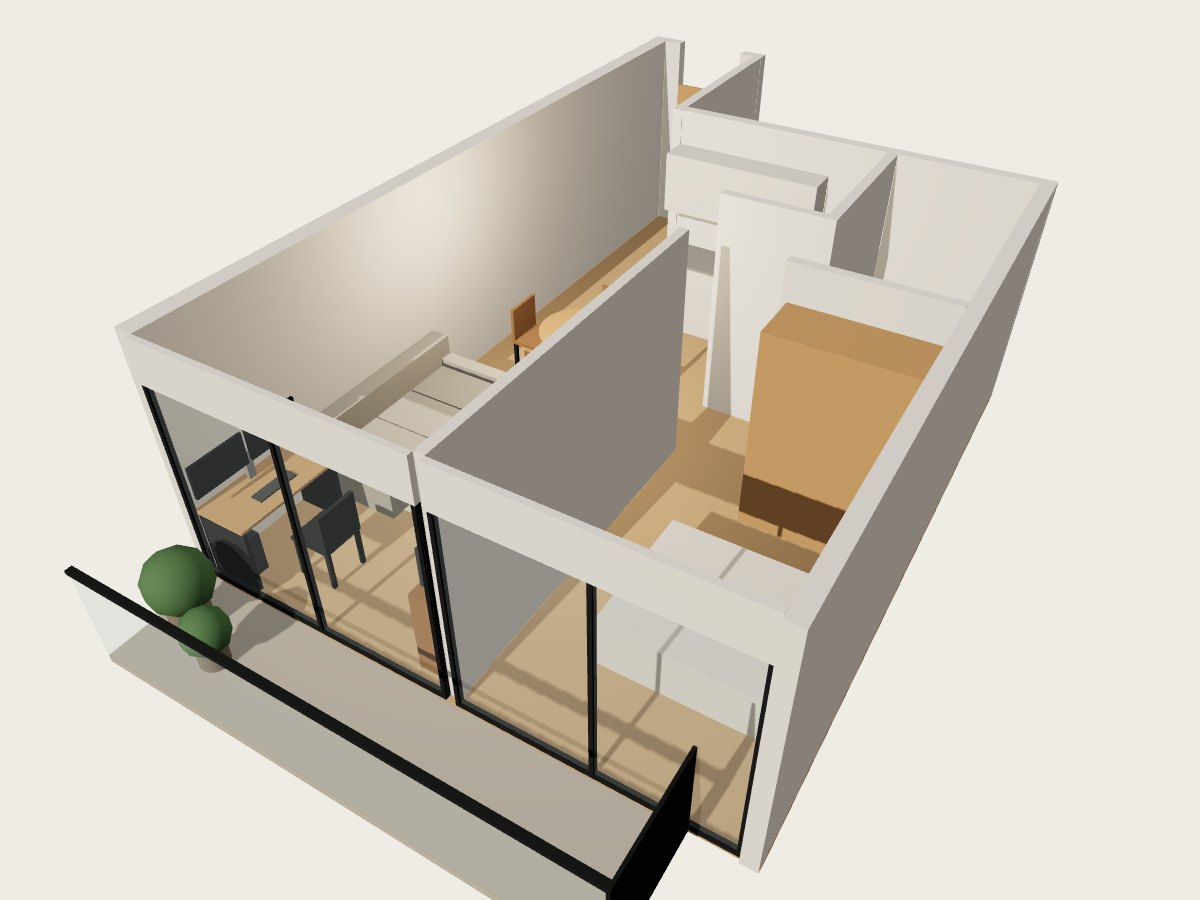
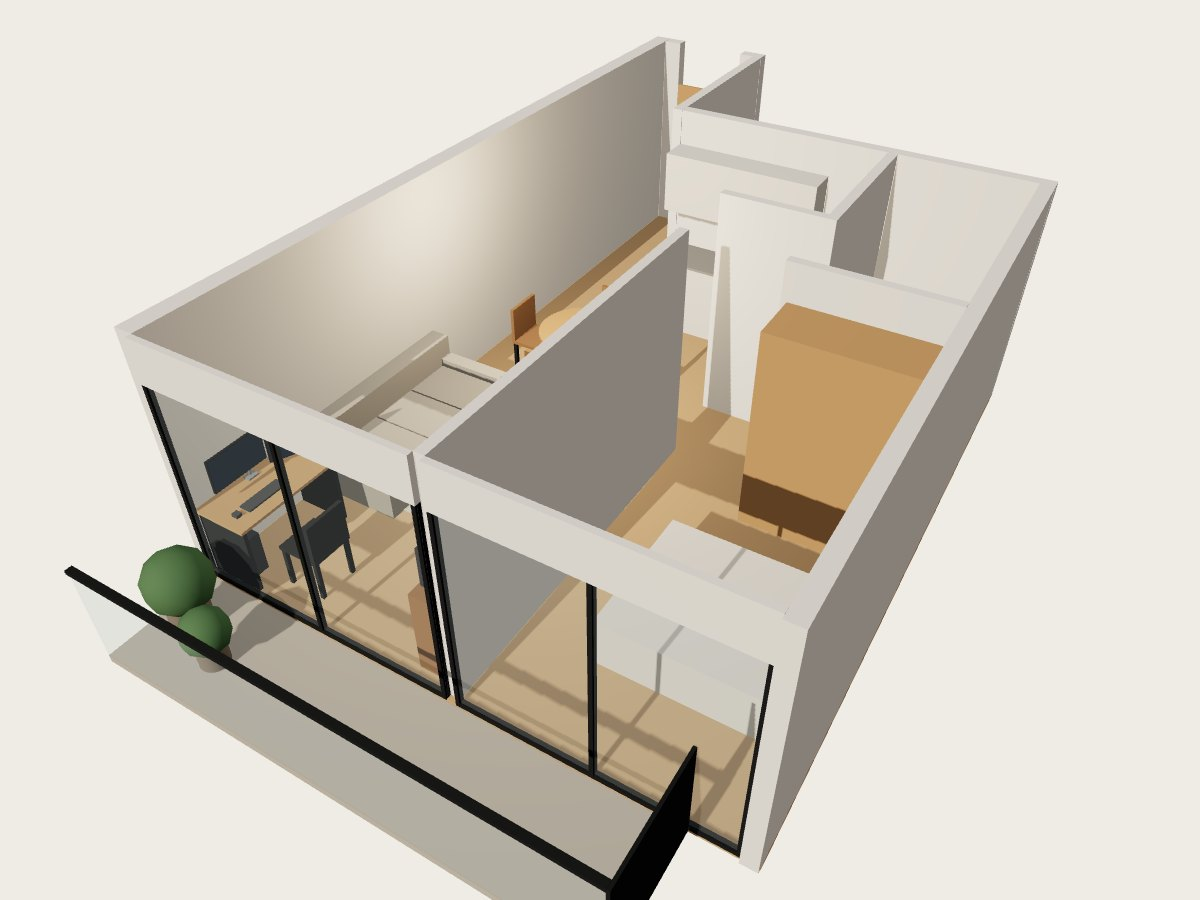
Escritorio: monitor principal horizontal + monitor vertical, centrados
Claude-Session: https://claude.ai/code/session_01L7gjd1td7r7S16jmGUvpKu

Changed region(s): [[0.2158, 0.5289, 0.3392, 0.6533], [0.1542, 0.4667, 0.2467, 0.5911]]

diff --git a/assets/living3d.js b/assets/living3d.js
@@ -178,6 +178,51 @@ function chair(cx, cz, faceX, faceZ, g, color = C.wood){
   g.add(c);
 }
 
+// Setup de escritorio: monitor principal horizontal (27") + monitor vertical (24"), centrados como conjunto
+// sobre el escritorio. El vertical va a la derecha, girado 25° hacia el usuario.
+// Devuelve la coordenada z del centro del monitor principal, para alinear silla y teclado.
+function monitorSetup(d, g){
+  const MAIN_W = 0.61, MAIN_H = 0.36;      // 27" 16:9
+  const PORT_W = 0.30, PORT_H = 0.53;      // 24" en vertical
+  const GAP = 0.02, ANG = THREE.MathUtils.degToRad(25);
+  const T = 0.025, Y0 = 0.90;              // espesor del panel y altura del borde inferior del principal
+  const xFace = d.x + 0.17;                // plano del principal (≈ 70 cm de los ojos)
+  const mz = d.z + d.d / 2;
+  const total = MAIN_W + GAP + PORT_W * Math.cos(ANG);
+  const zMin = mz - total / 2;
+  const mainZ0 = zMin + PORT_W * Math.cos(ANG) + GAP;
+  const mainC = mainZ0 + MAIN_W / 2;
+  const screenMat = new THREE.MeshStandardMaterial({color:0x1d2a38, roughness:0.25, emissive:0x101a24, emissiveIntensity:0.6});
+  const bezel = mat(C.black, {roughness:0.35});
+
+  // principal
+  g.add(box(xFace - T, Y0, mainZ0, xFace, Y0 + MAIN_H, mainZ0 + MAIN_W, bezel));
+  g.add(box(xFace, Y0 + 0.012, mainZ0 + 0.012, xFace + 0.002, Y0 + MAIN_H - 0.012, mainZ0 + MAIN_W - 0.012, screenMat));
+
+  // vertical: pivota en el borde que toca al principal y gira hacia el usuario
+  const piv = new THREE.Group();
+  piv.position.set(xFace, 0, mainZ0 - GAP);
+  piv.rotation.y = -ANG;
+  const py0 = Y0 + MAIN_H / 2 - PORT_H / 2;  // centrado en altura con el principal
+  piv.add(box(-T, py0, -PORT_W, 0, py0 + PORT_H, 0, bezel));
+  piv.add(box(0, py0 + 0.012, -PORT_W + 0.012, 0.002, py0 + PORT_H - 0.012, -0.012, screenMat));
+  g.add(piv);
+
+  // brazo doble: columna centrada detrás del conjunto + dos brazos
+  const poleZ = zMin + total / 2;
+  g.add(cyl(d.x + 0.07, poleZ, 0.02, 0.75, Y0 + MAIN_H / 2 + 0.05, C.metal, 20));
+  g.add(box(d.x + 0.05, 0.75, poleZ - 0.06, d.x + 0.13, 0.77, poleZ + 0.06, C.metal));
+  const armY = Y0 + MAIN_H / 2 - 0.015;
+  g.add(box(d.x + 0.07, armY, Math.min(poleZ, mainC) - 0.015, xFace - T - 0.005, armY + 0.03, Math.max(poleZ, mainC) + 0.015, C.metal));
+  const portC = mainZ0 - GAP - (PORT_W / 2) * Math.cos(ANG);
+  g.add(box(d.x + 0.07, armY, Math.min(poleZ, portC) - 0.015, xFace - T - 0.01, armY + 0.03, Math.max(poleZ, portC) + 0.015, C.metal));
+
+  // teclado y mouse frente al principal
+  g.add(box(d.x + 0.33, 0.75, mainC - 0.22, d.x + 0.46, 0.77, mainC + 0.22, 0x4a4e52));
+  g.add(box(d.x + 0.36, 0.75, mainC + 0.28, d.x + 0.43, 0.785, mainC + 0.34, 0x4a4e52));
+  return mainC;
+}
+
 function disposeGroup(g){
   g.traverse(o => {
     if(o.isCSS2DObject) o.element.remove();
@@ -232,12 +277,9 @@ function buildFurniture(key){
   furn.add(box(d.x+0.02,0,d.z+0.02,d.x+d.w-0.02,0.72,d.z+0.06,C.black));
   furn.add(box(d.x+0.02,0,d.z+d.d-0.06,d.x+d.w-0.02,0.72,d.z+d.d-0.02,C.black));
   const mz = d.z+d.d/2;
-  furn.add(box(d.x+0.08,0.75,mz-0.04,d.x+0.12,1.05,mz+0.04,C.metal));
-  furn.add(box(d.x+0.12,0.95,mz-0.62,d.x+0.15,1.3,mz-0.02,C.black,{roughness:0.3}));
-  furn.add(box(d.x+0.12,0.95,mz+0.02,d.x+0.15,1.3,mz+0.62,C.black,{roughness:0.3}));
-  furn.add(box(d.x+0.32,0.75,mz-0.22,d.x+0.45,0.77,mz+0.22,0x4a4e52));
+  const mainC = monitorSetup(d, furn);
   furn.add(box(d.x+0.2,0,d.z+d.d-0.28,d.x+0.42,0.45,d.z+d.d-0.07,C.printer));
-  chair(L.deskChair[0], L.deskChair[1], 0, L.deskChair[1], furn, C.black);
+  chair(L.deskChair[0], mainC, 0, mainC, furn, C.black);
   tag("Escritorio", "120 × 60", d.x+d.w/2, 1.45, mz, furn);
 
   const p = L.printer, pc = p.z+p.d/2;
@@ -380,4 +422,4 @@ renderer.setAnimationLoop(now => {
 for(const b of document.querySelectorAll("button")) b.addEventListener("click", () => { needs = true; });
 new ResizeObserver(() => { needs = true; }).observe(stage);
 darkMQ.addEventListener?.("change", () => { needs = true; });
-window.__living = { goView, buildFurniture, render: () => { needs = true; } };
+window.__living = { goView, buildFurniture, render: () => { needs = true; }, look: (p, t) => { camera.position.set(...p); controls.target.set(...t); controls.update(); needs = true; } };
